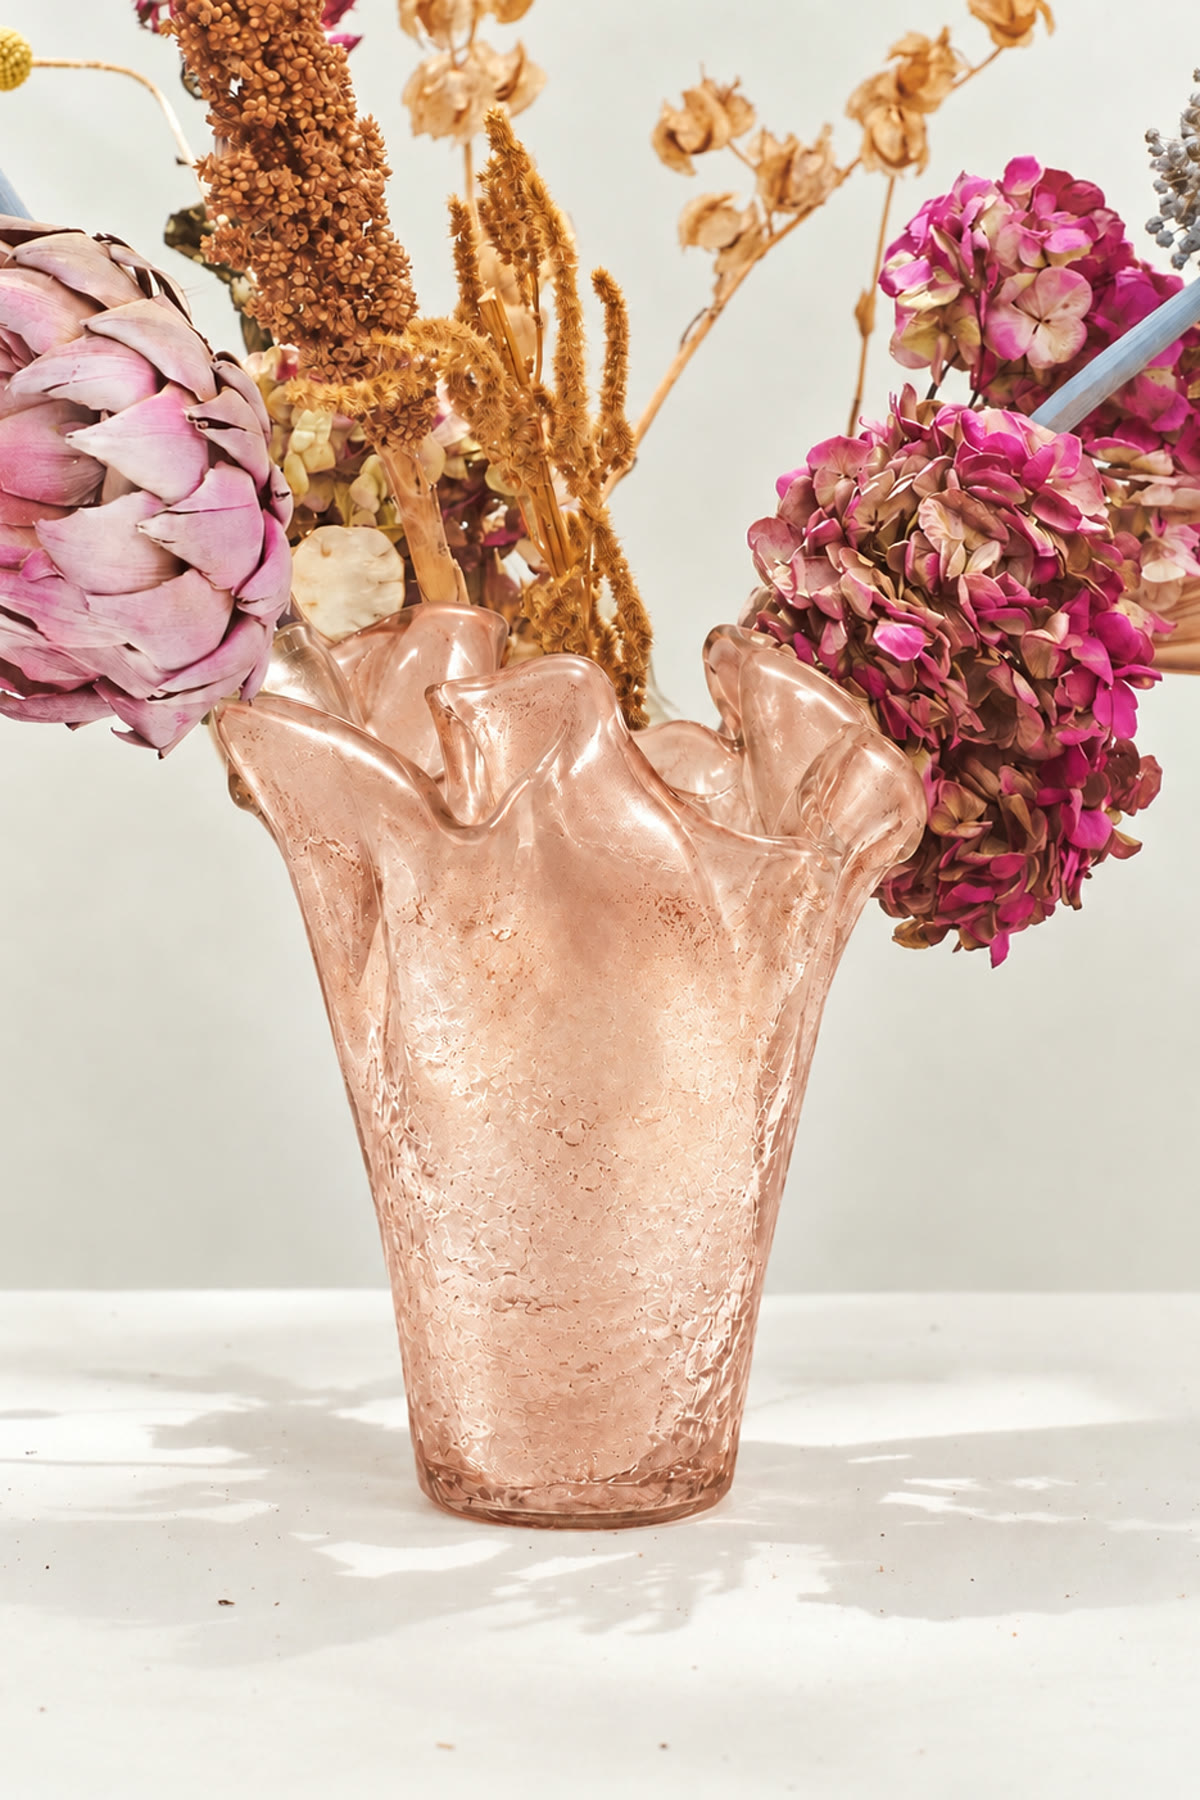
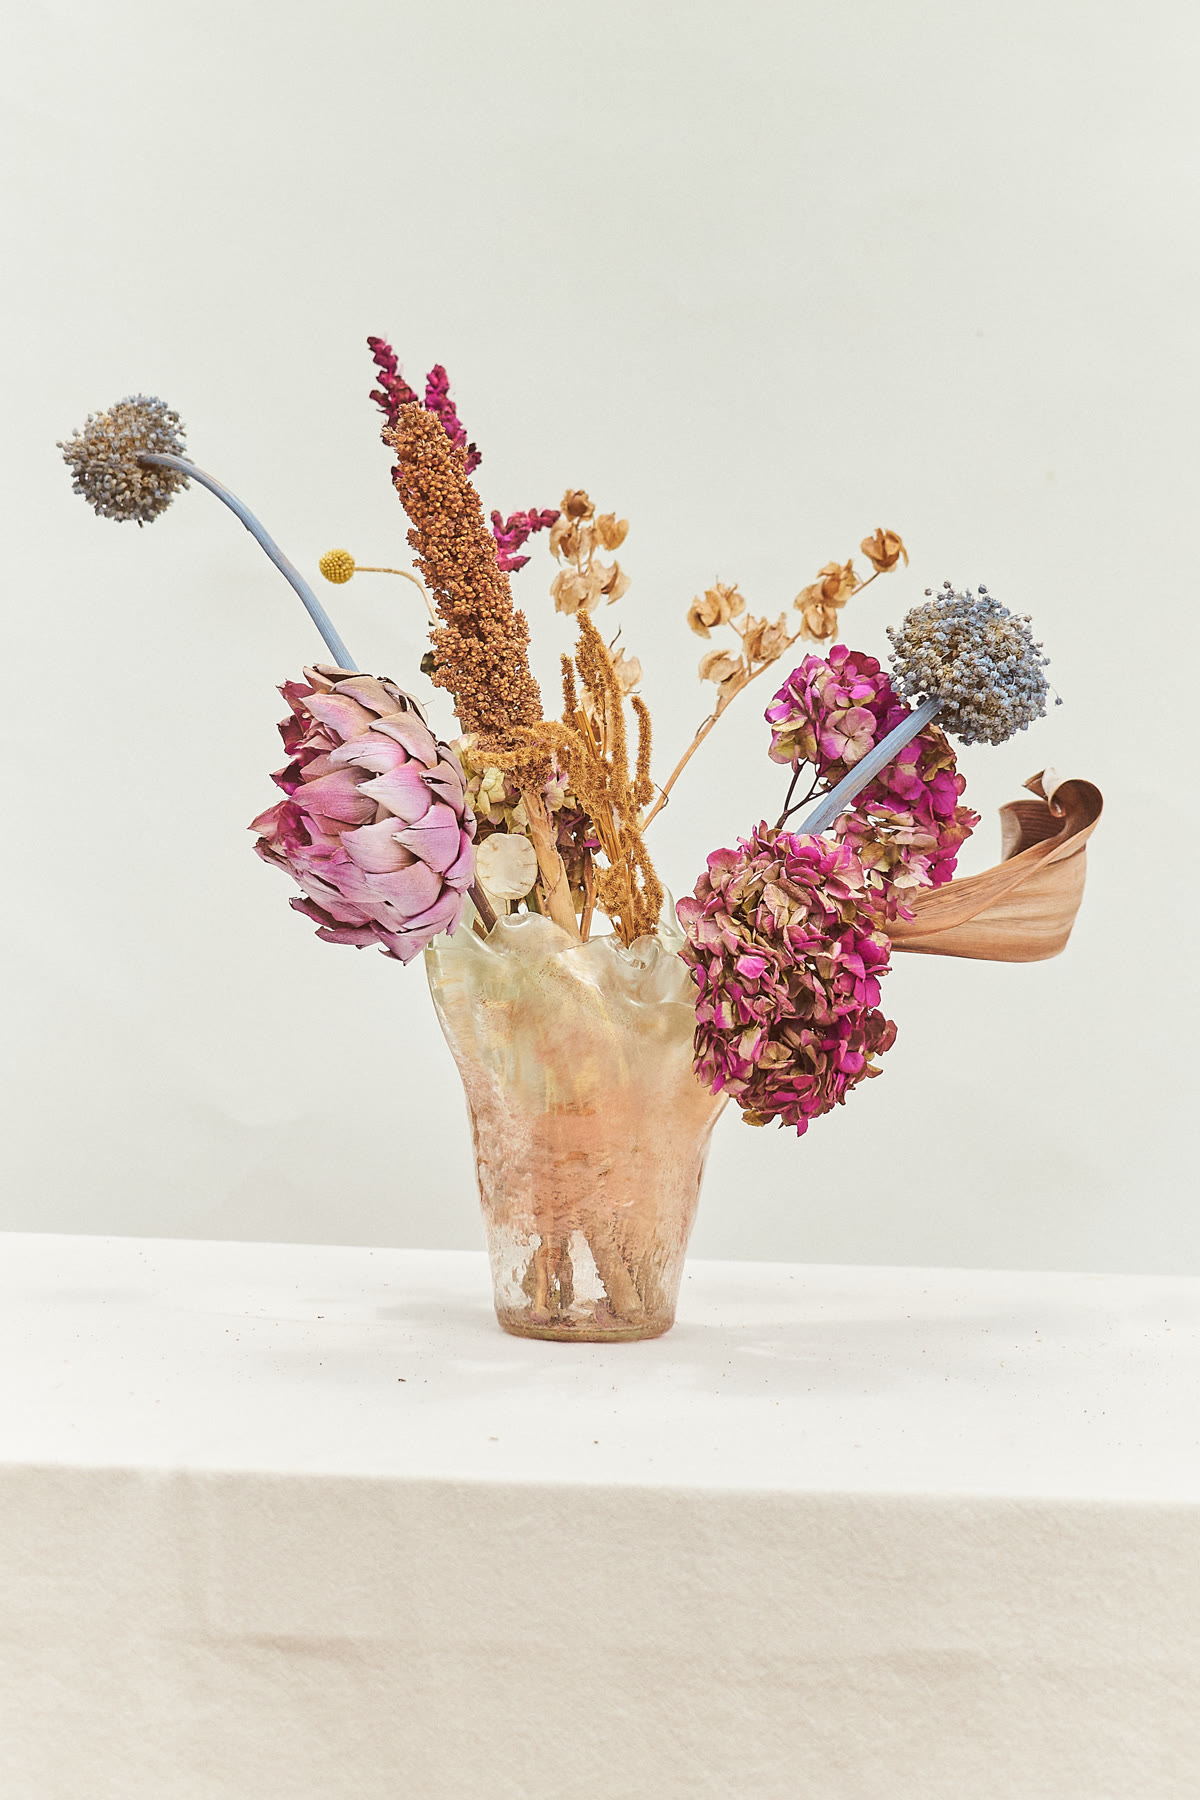
Florero Alto Irregular: reemplaza foto Oro Rosa por la original del shoot (26 may)
La foto que se agrego en el commit 302fab1 para el color Oro Rosa no
era la correcta: Ricardo confirmo que ya existia una foto de ese mismo
florero/shoot desde antes, archivada localmente en
30_RECURSOS/FOTOS_ACTUALIZADAS/florero alto irregular-20260526.../
Copia de CAP_4284.jpg (26 mayo 2026). Ya viene en proporcion 2:3
exacta, solo se escalo a 1200x1800, sin recortar.

diff --git a/products.js b/products.js
@@ -566,7 +566,7 @@ const PRODUCTS=[
       "img/florero-alto-irregular/florero-alto-irregular-02.jpg?v=4",
       "img/florero-alto-irregular/florero-alto-irregular-03.jpg?v=4",
       "img/florero-alto-irregular/florero-alto-irregular-04.jpg?v=4",
-      "img/florero-alto-irregular/florero-alto-irregular-05.jpg?v=1"
+      "img/florero-alto-irregular/florero-alto-irregular-05.jpg?v=2"
     ],
     "colorImages": {
       "Verde": 0,
